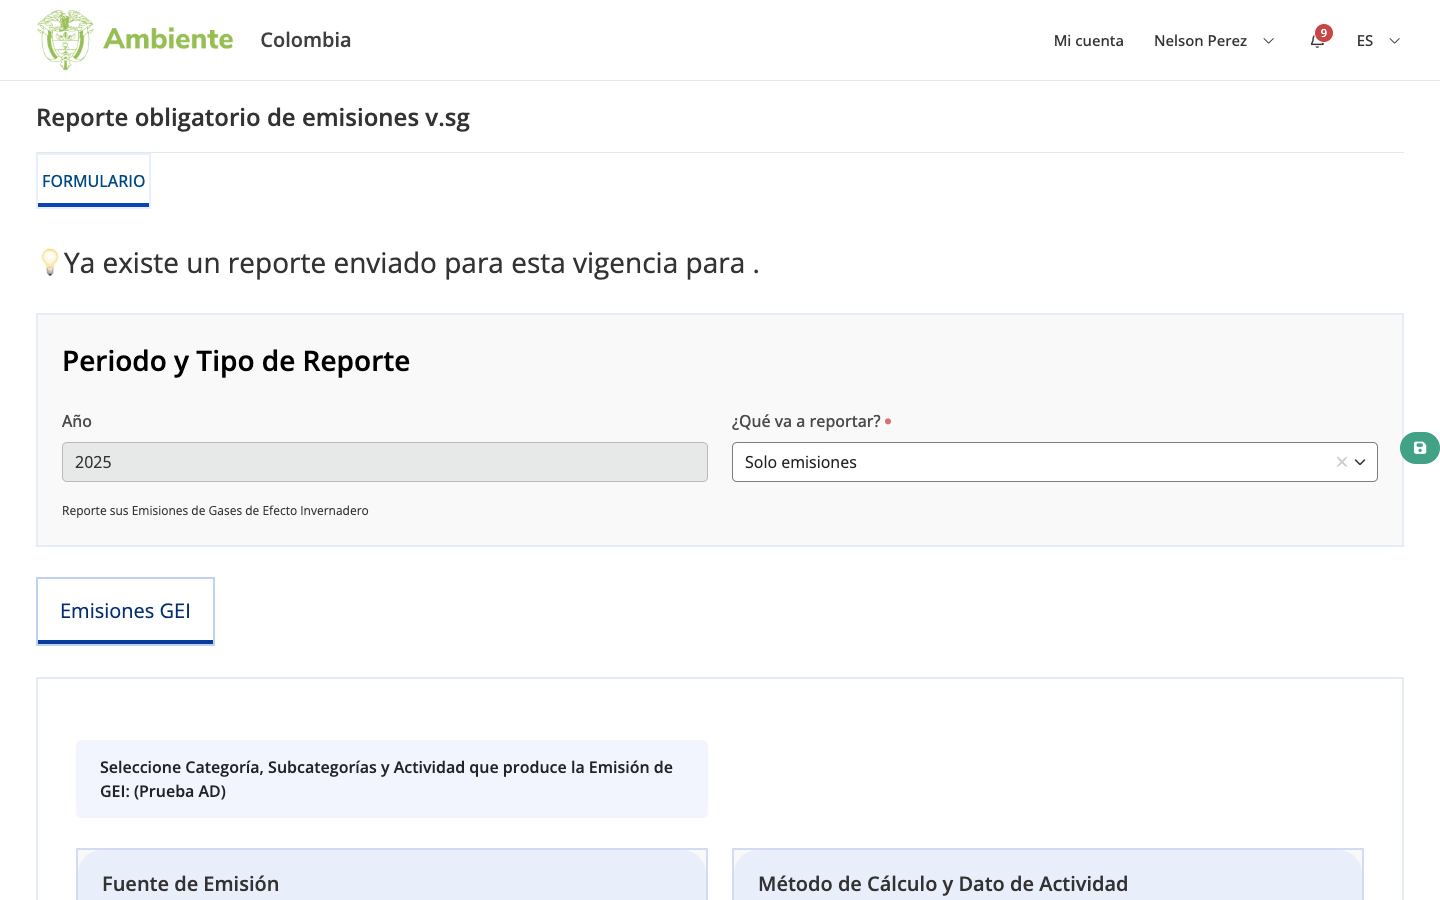
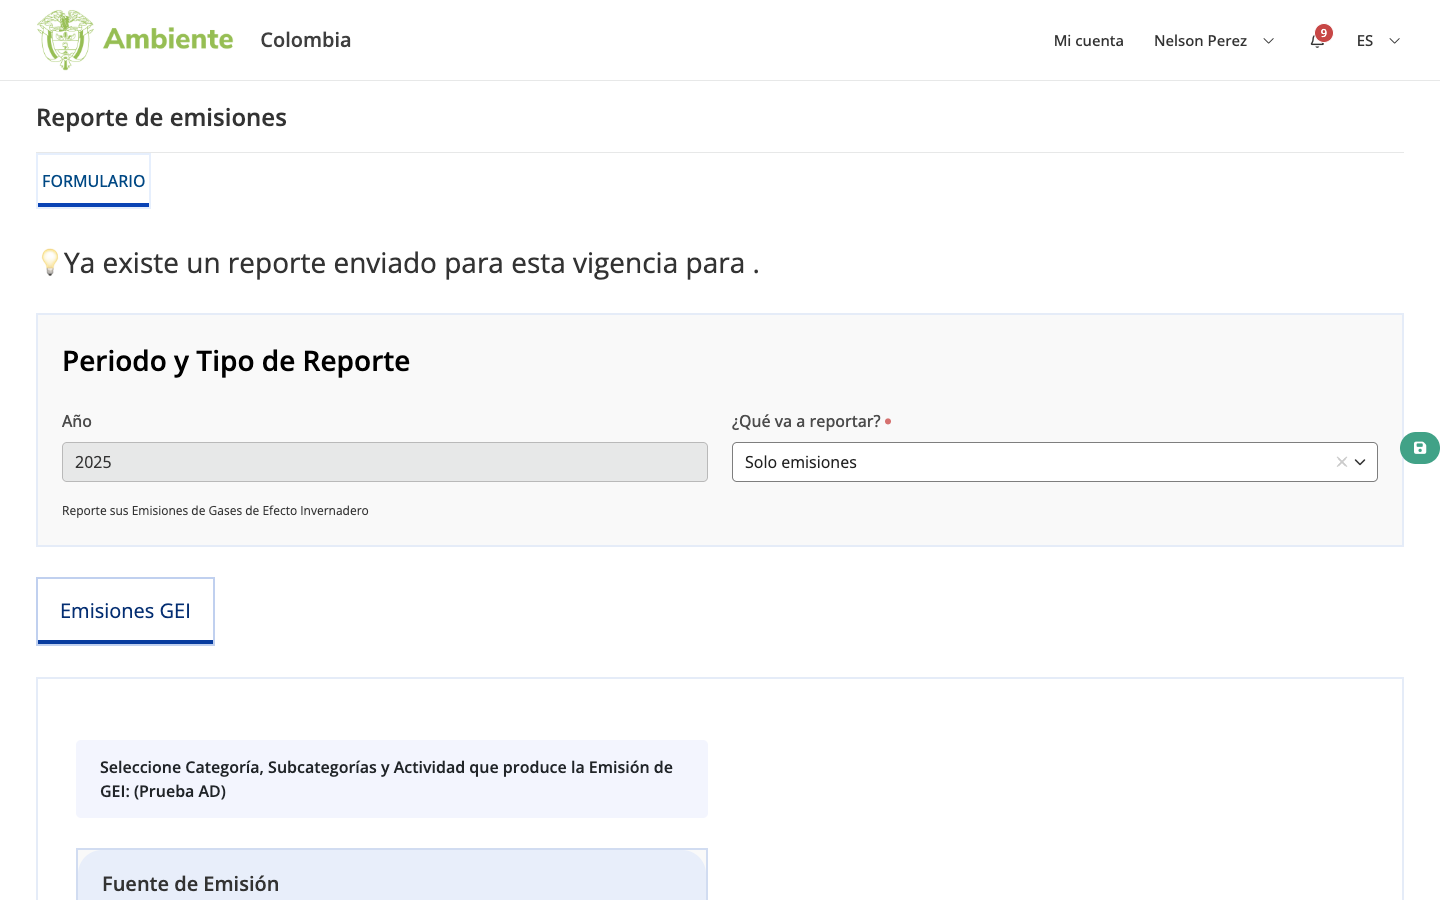
Título 'Reporte de Emisiones' + capturas actualizadas con el servicio renombrado

Changed region(s): [[0.5, 0.9644, 0.7812, 0.9956], [0.0938, 0.1244, 0.3438, 0.1556]]

diff --git a/en.html b/en.html
@@ -152,7 +152,7 @@
     </video>
     <div class="veil"></div>
     <div class="kicker anim">Colombia · Ministry of Environment and Sustainable Development</div>
-    <h1 class="anim" style="animation-delay:.12s">Mandatory Emissions<br>Report (ROE)</h1>
+    <h1 class="anim" style="animation-delay:.12s">Emissions<br>Report (ROE)</h1>
     <p class="lead anim" style="animation-delay:.24s">Colombia's Climate Action Law (Law 2169 of 2021) makes GHG emissions reporting mandatory. This is how it's done — on a single online portal.</p>
   </section>
 

diff --git a/index.html b/index.html
@@ -166,7 +166,7 @@
     </video>
     <div class="veil"></div>
     <div class="kicker anim">Colombia · Ministerio de Ambiente y Desarrollo Sostenible</div>
-    <h1 class="anim" style="animation-delay:.12s">Reporte Obligatorio<br>de Emisiones</h1>
+    <h1 class="anim" style="animation-delay:.12s">Reporte<br>de Emisiones</h1>
     <p class="lead anim" style="animation-delay:.24s">La Ley de Acción Climática (Ley 2169 de 2021) hace obligatorio reportar las emisiones GEI. Así se hace, en un solo portal en línea.</p>
   </section>
 